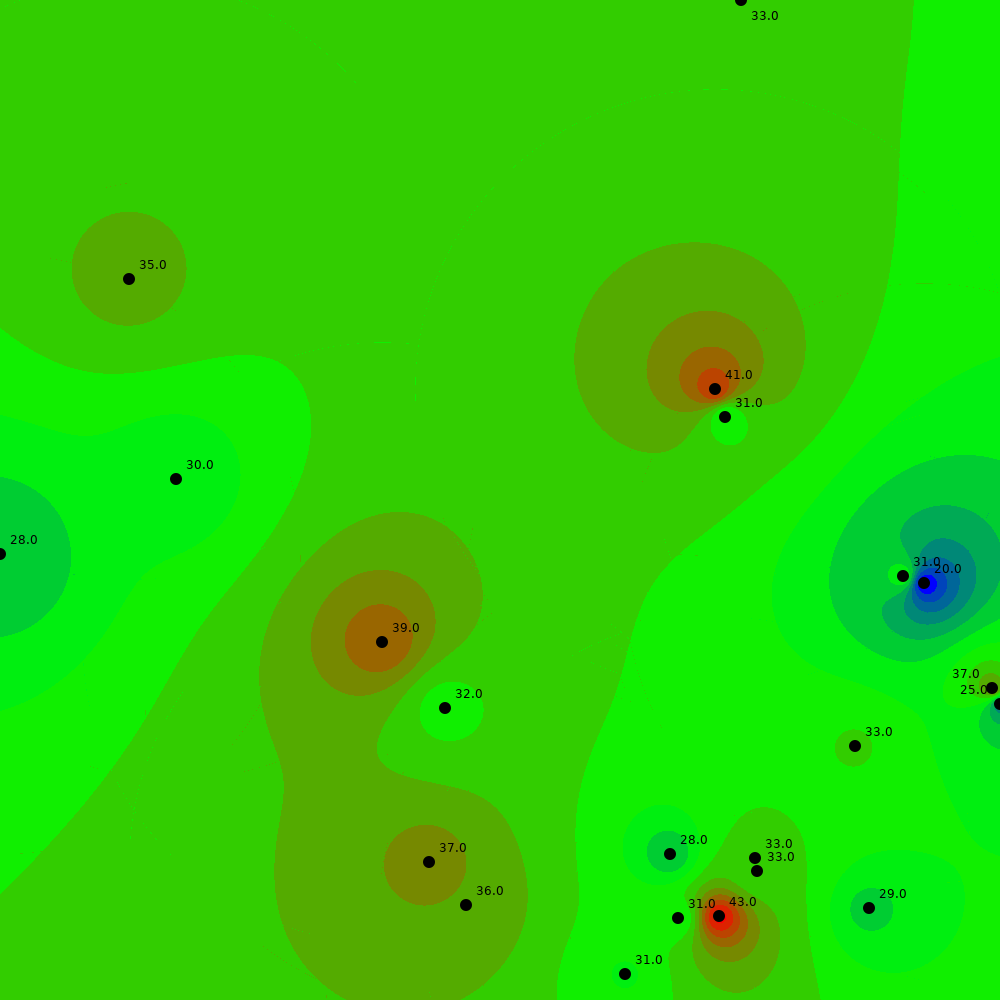
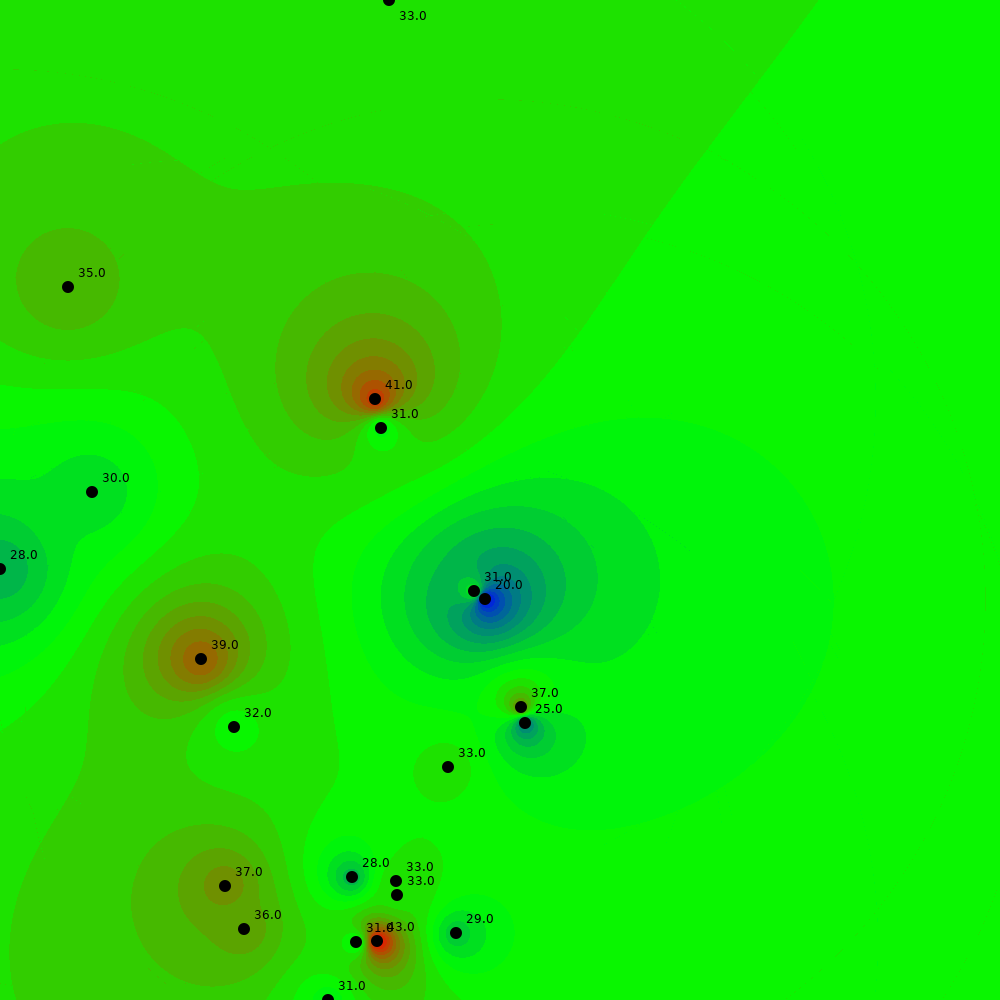
Koordinaattien skaalaus korjattu toimimaan maantieteellisillä koordinaateilla

diff --git a/triangle-interpolator/src/main/java/utils/MyMath.java b/triangle-interpolator/src/main/java/utils/MyMath.java
@@ -99,33 +99,14 @@ public class MyMath {
         double xMin = minAndMaxCoordinates[1];
         double yMin = minAndMaxCoordinates[3];
 
+        System.out.println("xMax: " + xMax + " yMax " + yMax + " xMin " + xMin + " ymin " + yMin);
+
         Point topLeft = new Point(xMin, yMax);
         Point topRight = new Point(xMax, yMax);
         Point bottomRight = new Point(xMax, yMin);
         Point bottomLeft = new Point(xMin, yMin);
 
         Point[] output = {topLeft, topRight, bottomRight, bottomLeft};
-
-        return output;
-    }
-
-    private static double[] findMinAndMaxCoordinates(MyArrayList<Point> points) {
-        double xMax = -INF;
-        double yMax = -INF;
-        double xMin = INF;
-        double yMin = INF;
-
-        for (int i = 0; i < points.size(); i++) {
-            Point p = points.get(i);
-
-            xMax = (p.getX() > xMax) ? p.getX() : xMax;
-            yMax = (p.getY() > yMax) ? p.getY() : yMax;
-
-            xMin = (p.getX() < xMin) ? p.getX() : xMin;
-            yMin = (p.getY() < yMin) ? p.getY() : yMin;
-        }
-
-        double[] output = {xMax, xMin, yMax, yMin};
 
         return output;
     }
@@ -189,18 +170,42 @@ public class MyMath {
         double xMin = minAndMaxCoordinates[1];
         double yMin = minAndMaxCoordinates[3];
 
-        //Original width and height
-        double width2 = xMax - xMin;
-        double height2 = yMax - yMin;
+        Point p1 = new Point(xMin, yMin);
+        Point p2 = new Point(xMax, yMin);
+        Point p3 = new Point(xMin, yMax);
+
+        //Original width and height in km
+        double distanceX = p1.calculateHaversineDistance(p2);
+        double distanceY = p1.calculateHaversineDistance(p3);
+
+        double coefficientX, coefficientY;
+        if (distanceX > distanceY) {
+            coefficientX = distanceX / distanceY;
+            coefficientY = 1;
+        } else {
+            coefficientY = distanceY / distanceX;
+            coefficientX = 1;
+        }
+        
+        MyArrayList<Point> pointsMovedToOrigin = moveCoordinatesToOrigin(points);
+        minAndMaxCoordinates = findMinAndMaxCoordinates(pointsMovedToOrigin);
+
+        xMax = minAndMaxCoordinates[0];
+        yMax = minAndMaxCoordinates[2];
+        xMin = minAndMaxCoordinates[1];
+        yMin = minAndMaxCoordinates[3];
+
+        double width2 = (xMax - xMin) * coefficientX;
+        double height2 = (yMax - yMin) * coefficientY;
 
         double scalingFactor = MyMath.min((width / width2), (height / height2));
 
         MyArrayList<Point> output = new MyArrayList<>();
-        for (int i = 0; i < points.size(); i++) {
-            Point p = points.get(i);
+        for (int i = 0; i < pointsMovedToOrigin.size(); i++) {
+            Point p = pointsMovedToOrigin.get(i);
 
-            double x = (p.getX() - xMin) * scalingFactor;
-            double y = (p.getY() - yMin) * scalingFactor;
+            double x = p.getX() * (scalingFactor * coefficientX);
+            double y = p.getY() * (scalingFactor * coefficientY);
 
             Point scaledPoint = new Point(x, y, p.getWeight());
             output.add(scaledPoint);
@@ -232,7 +237,27 @@ public class MyMath {
         double[] output = {minWeight, maxWeight};
 
         return output;
+    }
 
+    private static double[] findMinAndMaxCoordinates(MyArrayList<Point> points) {
+        double xMax = -INF;
+        double yMax = -INF;
+        double xMin = INF;
+        double yMin = INF;
+
+        for (int i = 0; i < points.size(); i++) {
+            Point p = points.get(i);
+
+            xMax = (p.getX() > xMax) ? p.getX() : xMax;
+            yMax = (p.getY() > yMax) ? p.getY() : yMax;
+
+            xMin = (p.getX() < xMin) ? p.getX() : xMin;
+            yMin = (p.getY() < yMin) ? p.getY() : yMin;
+        }
+
+        double[] output = {xMax, xMin, yMax, yMin};
+
+        return output;
     }
 
 }

diff --git a/triangle-interpolator/src/main/java/ui/UI.java b/triangle-interpolator/src/main/java/ui/UI.java
@@ -1,5 +1,6 @@
 package ui;
 
+import geometry.Point;
 import geometry.Triangle;
 import static interpolate.Interpolator.interpolateInverseDistance;
 import static interpolate.Interpolator.interpolateMatrix;
@@ -73,8 +74,8 @@ public class UI {
 
     private void runInterpolation() {
         CsvParse parser = new CsvParse(inputFileName);
-        MyArrayList<geometry.Point> list = parser.parsePointsFromFile(csvSeparator, xCoord, yCoord, zCoord);
-        list = MyMath.moveCoordinatesToOrigin(list);
+        MyArrayList<Point> list = parser.parsePointsFromFile(csvSeparator, xCoord, yCoord, zCoord);
+        MyArrayList<Point> list2 = MyMath.moveCoordinatesToOrigin(list);
 
         // TODO: Scale coordinates and keep constrain proportions!!
         // Currently messes up aspect ratio (see airquality_photoshoped.png)
@@ -83,7 +84,7 @@ public class UI {
         System.out.println("Generating Delaunay triangles");
         MyHashSet<Triangle> t = triangulate(list);
         double[][] barycentricInterpolation = interpolateMatrix(width, height, list, t, 25);
-        double[][] idwInterpolation = interpolateInverseDistance(width, height, list, 300, 2, 15);
+        double[][] idwInterpolation = interpolateInverseDistance(width, height, list, 500, 2, 25);
 
         System.out.println("Writing barycentric");
         if (drawLabels) {

diff --git a/triangle-interpolator/src/main/java/geometry/Point.java b/triangle-interpolator/src/main/java/geometry/Point.java
@@ -99,6 +99,30 @@ public class Point {
         return distance;
     }
 
+    /**
+     * Calculates distance in km from this point to given point by Haversine
+     * formula, that is great-circle distance between points.
+     *
+     * Note: Used only when using geographical coordinates, i.e. coordinates
+     * with WGS84 datum.
+     *
+     * @param p Point where to calculate distance from this point
+     * @return distance in km
+     */
+    public double calculateHaversineDistance(Point p) {
+        double R = 6372.8; //Radius of Earth in km
+
+        double dLat = Math.toRadians(this.y - p.y);
+        double dLon = Math.toRadians(this.x - p.x);
+
+        double lat1 = Math.toRadians(this.y);
+        double lat2 = Math.toRadians(p.y);
+
+        double a = Math.sin(dLat / 2) * Math.sin(dLat / 2) + Math.sin(dLon / 2) * Math.sin(dLon / 2) * Math.cos(lat1) * Math.cos(lat2);
+        double c = 2 * Math.asin(Math.sqrt(a));
+        return R * c;
+    }
+
     @Override
     public String toString() {
         return "x: " + this.x + " y: " + this.y + ", weight: " + this.weight;
